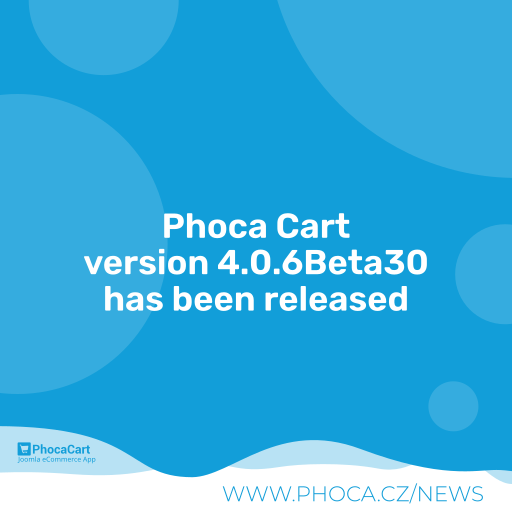
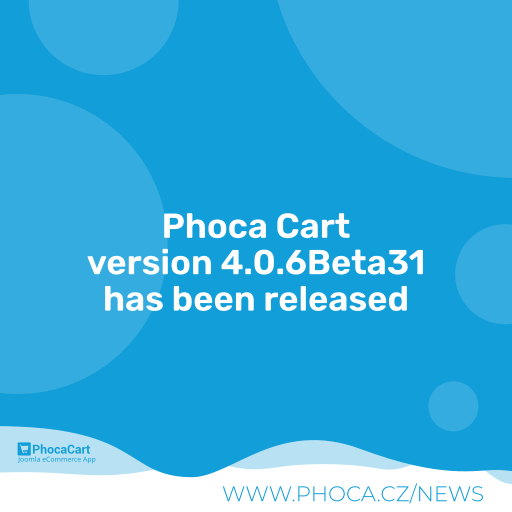
4.0.6Beta31

Changed region(s): [[0.1562, 0.4688, 0.8438, 0.5625]]

diff --git a/media/js/phoca/phocapos.min.js b/media/js/phoca/phocapos.min.js
@@ -1,1 +1,1 @@
-"use strict";function phUpdateUrlParameter(e,o,r){var t,a,n;if(void 0!==r?(a="",1<(n=(t=r).split("#")).length&&(a=n[1])):(t=window.location.href,a=location.hash),0<=(t=t.replace(a,"")).indexOf(e+"=")?t=t.substring(0,t.indexOf(e))+e+"="+o+(n=0<=(n=(n=t.substring(t.indexOf(e))).substring(n.indexOf("=")+1)).indexOf("&")?n.substring(n.indexOf("&")):""):t.indexOf("?")<0?t+="?"+e+"="+o:t+="&"+e+"="+o,t=t.replace(/[^=&]+=(&|$)/g,"").replace(/&$/,""),void 0!==r)return t+a;window.history.pushState(null,null,t+a)}function phDoSubmitFormUpdateInputBox(e,o){return jQuery.ajax({type:"POST",url:o,async:!0,cache:"false",data:e,dataType:"HTML",success:function(e){jQuery("#phPosInputBox").html(e)}}),!1}function phDoSubmitFormUpdateCategoriesBox(e,o){return"main.content.customers"!=jQuery("#phPosPaginationBox input[name=page]").val()||jQuery.ajax({type:"POST",url:o,async:!0,cache:"false",data:e,dataType:"HTML",success:function(e){jQuery("#phPosCategoriesBox").html(e)}}),!1}function phPosCurrentData(e,o,r){var t=Joomla.getOptions("phVarsPC").token;return"format="+(void 0!==o?o:"raw")+"&tmpl=component&page="+(void 0!==e?e:jQuery("#phPosPaginationBox input[name=page]").val())+(void 0!==r?"&id="+r:"")+"&ticketid="+jQuery("#phPosPaginationBox input[name=ticketid]").val()+"&unitid="+jQuery("#phPosPaginationBox input[name=unitid]").val()+"&sectionid="+jQuery("#phPosPaginationBox input[name=sectionid]").val()+"&"+t+"=1"}function phPosClearFilter(){phUpdateUrlParameter("category",""),jQuery("input.phPosCategoryCheckbox:checkbox:checked").prop("checked",!1),jQuery("label.phCheckBoxCategory").removeClass("active"),phUpdateUrlParameter("search",""),jQuery("#phPosSearch").val("")}function phPosManagePageFocus(e){if(1!=Joomla.getOptions("phParamsPC").posFocusInputFields)return!0;"main.content.products"==e?jQuery("#phPosSearch").is(":focus")||jQuery("#phPosSku").focus():"main.content.customers"==e?jQuery("#phPosSearch").is(":focus")||jQuery("#phPosCard").focus():"main.content.paymentmethods"==e||"main.content.applybenefits"==e?jQuery("#phPosSearch").is(":focus")||jQuery("#phcoupon").focus():"main.content.payment"==e&&jQuery("#phAmountTendered").focus()}function phPosManagePage(){var e=jQuery("#phPosPaginationBox input[name=page]").val();"main.content.products"==e?(jQuery(".ph-pos-checkbox-box").show(),jQuery(".ph-pos-sku-product-box").show(),jQuery(".ph-pos-card-user-box").hide(),jQuery(".ph-pos-search-box").show(),jQuery(".ph-pos-date-order-box").hide(),phPosManagePageFocus(e)):"main.content.customers"==e?(jQuery(".ph-pos-checkbox-box").hide(),jQuery(".ph-pos-search-box").show(),jQuery(".ph-pos-card-user-box").show(),jQuery(".ph-pos-sku-product-box").hide(),jQuery(".ph-pos-date-order-box").hide(),phPosManagePageFocus(e)):"main.content.order"==e?(jQuery(".ph-pos-checkbox-box").hide(),jQuery(".ph-pos-search-box").hide(),jQuery(".ph-pos-card-user-box").hide(),jQuery(".ph-pos-sku-product-box").hide(),jQuery(".ph-pos-date-order-box").hide()):"main.content.orders"==e?(jQuery(".ph-pos-checkbox-box").hide(),jQuery(".ph-pos-search-box").hide(),jQuery(".ph-pos-card-user-box").hide(),jQuery(".ph-pos-sku-product-box").hide(),jQuery(".ph-pos-date-order-box").show()):"main.content.paymentmethods"==e||"main.content.applybenefits"==e||"main.content.payment"==e?(jQuery(".ph-pos-checkbox-box").hide(),jQuery(".ph-pos-search-box").hide(),jQuery(".ph-pos-card-user-box").hide(),jQuery(".ph-pos-sku-product-box").hide(),jQuery(".ph-pos-date-order-box").hide(),phPosManagePageFocus(e)):(jQuery(".ph-pos-checkbox-box").hide(),jQuery(".ph-pos-search-box").hide(),jQuery(".ph-pos-card-user-box").hide(),jQuery(".ph-pos-sku-product-box").hide(),jQuery(".ph-pos-date-order-box").hide())}function phAddSuffixToUrl(e,o){return e+(-1!=e.indexOf("?")?"&":"?")+o}function phAjaxEditPos(e,o,r,t){var a=phAddSuffixToUrl(window.location.href,"format=raw"),n=phPosCurrentData("main.input"),s=phPosCurrentData("main.categories"),p=phPosCurrentData("main.cart","json");return jQuery.ajax({type:"POST",url:o,async:!0,cache:"false",data:e,dataType:"JSON",success:function(e){var o;1==e.status?(o="undefined"!==e.id?e.id:"",o=phPosCurrentData(r,"raw",o),phDoSubmitFormUpdateCategoriesBox(s,a),phRenderPage(o,a),phDoSubmitFormUpdateInputBox(n,a),phDoSubmitFormUpdateCart(p),jQuery(".ph-pos-message-box").html(e.message)):0==e.status&&(o=phPosCurrentData(t),phRenderPage(o,a),phDoSubmitFormUpdateInputBox(n,a),phDoSubmitFormUpdateCart(p),jQuery(".ph-pos-message-box").html(e.error))}}),!1}function phFindMember(e){var o="search="+e+"&"+phPosCurrentData();phUpdateUrlParameter("search",e);e=phAddSuffixToUrl(window.location.href,"format=raw");phRenderPage(o,e),jQuery(".ph-pos-message-box").html("")}function phScrollPosCart(e){var o;0<jQuery("#ph-msg-ns").length?e.animate({scrollTop:0},1500):(o=e[0].scrollHeight,e.animate({scrollTop:o},1500))}function phConfirm(o,e,r){return jQuery("#phDialogConfirm .modal-body").html(r),new bootstrap.Modal(document.getElementById("phDialogConfirm"),{keyboard:!1}).show(),jQuery("#phDialogConfirmSave").on("click",function(e){return phPosCloseTicketFormConfirmed=!0,""!=o&&jQuery(o).submit(),!0}),!1}jQuery(document).ready(function(){phPosManagePage(),jQuery(document).on("submit","#phPosSkuProductForm",function(){setTimeout(function(){jQuery("#phPosSku").val("")},100)}),jQuery(document).on("submit","#phPosCardUserForm",function(){setTimeout(function(){jQuery("#phPosCard").val("")},100)});var e=Joomla.getOptions("phLangPC"),o=document.getElementsByTagName("script"),t=0;jQuery.each(o,function(e,o){var r=o.src,o=r.indexOf("?"),r=(r=r.substring(0,-1!=o?o:r.length)).split("\\\\").pop().split("/").pop();"bootstrap.min.js"!=r&&"bootstrap.js"!=r||t++}),1<t&&(jQuery("#phPosWarningMsgBox").text(e.COM_PHOCACART_WARNING_BOOTSTRAP_JS_LOADED_MORE_THAN_ONCE),jQuery("#phPosWarningMsgBox").show()),jQuery(document).on("click",".loadMainContent",function(e){phPosClearFilter();var o=phAddSuffixToUrl(window.location.href,"format=raw"),r=jQuery(this).closest("form").serialize();phRenderPage(r,o),jQuery(".ph-pos-message-box").html(""),e.preventDefault()}),jQuery(document).on("click",".editMainContent",function(e){phPosClearFilter();var o=phAddSuffixToUrl(window.location.href,"format=json"),r=jQuery(this).closest("form");phAjaxEditPos(r.serialize(),o,r.find('input[name="redirectsuccess"]').val(),r.find('input[name="redirecterror"]').val()),jQuery(".ph-pos-message-box").html(""),e.preventDefault()}),jQuery(document).on("submit","#phPosCardUserForm",function(e){phPosClearFilter();var o=phAddSuffixToUrl(window.location.href,"format=json");phAjaxEditPos(jQuery("#phPosCardUserForm").serialize(),o,"main.content.products","main.content.products"),jQuery(".ph-pos-message-box").html(""),e.preventDefault()}),jQuery(document).on("submit","#phPosDateOrdersForm",function(e){phPosClearFilter();var o=phAddSuffixToUrl(window.location.href,"format=raw"),r=jQuery("#phPosDateOrdersForm").serialize();phRenderPage(r,o),jQuery(".ph-pos-message-box").html(""),e.preventDefault()});var r=!1;jQuery(document).on("submit","#phPosCloseTicketForm",function(e){var o=jQuery(this).data("txt");return r?!(r=!1):(phConfirm("#phPosCloseTicketForm","",o),e.preventDefault(),!1)}),jQuery(document).on("change","#phPosCategoriesBox .phPosCategoryCheckbox",function(){var e,o;2==Joomla.getOptions("phParamsPC").posFilterCategory?(e=[],jQuery("label.phCheckBoxCategory").removeClass("active"),jQuery("input.phPosCategoryCheckbox:checkbox:checked").each(function(){e.push(jQuery(this).val()),jQuery(this).parent("label").addClass("active")}),o=e.join(",")):(o=jQuery(this).val(),jQuery(this).parent().addClass("active"),jQuery("input.phPosCategoryCheckbox:checkbox:checked").each(function(){o!=jQuery(this).val()&&(jQuery(this).prop("checked",!1),jQuery(this).parent("label").removeClass("active"))}),0==jQuery(this).prop("checked")&&(o=""));var r="category="+o+"&"+phPosCurrentData();phUpdateUrlParameter("category",o);var t=phAddSuffixToUrl(window.location.href,"format=raw");phRenderPage(r,t),jQuery(".ph-pos-message-box").html("")});var a=null;jQuery("#phPosSearch").keyup(function(){clearTimeout(a);var e=jQuery(this);a=setTimeout(function(){phFindMember(e.val())},800)}),jQuery("#phPosContentBox").on("click",".phOrderPrintBtn",function(e){var o=Joomla.getOptions("phVarsPC"),r=Joomla.getOptions("phParamsPC").posServerPrint,t=o.urlOrder,a=jQuery(this).data("order"),n=jQuery(this).data("type"),o=(jQuery("#phPosOrderPrintBox").attr("data-order"),jQuery("#phPosOrderPrintBox").attr("data-type"));if("-1"==n){if(2!=r&&3!=r)return window.print(),!1;if("4"!=o)return window.print(),!1;o=phAddSuffixToUrl(t,"id="+a+"&type="+o+"&pos=1&printserver=1");return jQuery.ajax({type:"GET",url:o,async:!0,cache:"false",dataType:"HTML",success:function(e){jQuery(".ph-pos-message-box").html("<div>"+e+"</div>")}}),e.preventDefault(),!1}var s="phType"+n,t=phAddSuffixToUrl(t,"id="+a+"&type="+n+"&pos=1");jQuery.ajax({type:"GET",url:t,async:!0,cache:"false",dataType:"HTML",success:function(e){jQuery("#phPosOrderPrintBox").attr("class",s),jQuery("#phPosOrderPrintBox").attr("data-type",n),jQuery("#phPosOrderPrintBox").html(e)}}),e.preventDefault()});var n=jQuery("#phPosCart");phScrollPosCart(n),n.on("DOMSubtreeModified",function(){""!=n.text()&&phScrollPosCart(n)})});
+"use strict";function phUpdateUrlParameter(e,o,r){var t,a,n;if(void 0!==r?(a="",1<(n=(t=r).split("#")).length&&(a=n[1])):(t=window.location.href,a=location.hash),0<=(t=t.replace(a,"")).indexOf(e+"=")?t=t.substring(0,t.indexOf(e))+e+"="+o+(n=0<=(n=(n=t.substring(t.indexOf(e))).substring(n.indexOf("=")+1)).indexOf("&")?n.substring(n.indexOf("&")):""):t.indexOf("?")<0?t+="?"+e+"="+o:t+="&"+e+"="+o,t=t.replace(/[^=&]+=(&|$)/g,"").replace(/&$/,""),void 0!==r)return t+a;window.history.pushState(null,null,t+a)}function phDoSubmitFormUpdateInputBox(e,o){return jQuery.ajax({type:"POST",url:o,async:!0,cache:"false",data:e,dataType:"HTML",success:function(e){jQuery("#phPosInputBox").html(e)}}),!1}function phDoSubmitFormUpdateCategoriesBox(e,o){return"main.content.customers"!=jQuery("#phPosPaginationBox input[name=page]").val()||jQuery.ajax({type:"POST",url:o,async:!0,cache:"false",data:e,dataType:"HTML",success:function(e){jQuery("#phPosCategoriesBox").html(e)}}),!1}function phPosCurrentData(e,o,r){var t=Joomla.getOptions("phVarsPC").token;return"format="+(void 0!==o?o:"raw")+"&tmpl=component&page="+(void 0!==e?e:jQuery("#phPosPaginationBox input[name=page]").val())+(void 0!==r?"&id="+r:"")+"&ticketid="+jQuery("#phPosPaginationBox input[name=ticketid]").val()+"&unitid="+jQuery("#phPosPaginationBox input[name=unitid]").val()+"&sectionid="+jQuery("#phPosPaginationBox input[name=sectionid]").val()+"&"+t+"=1"}function phPosClearFilter(){phUpdateUrlParameter("category",""),jQuery("input.phPosCategoryCheckbox:checkbox:checked").prop("checked",!1),jQuery("label.phCheckBoxCategory").removeClass("active"),phUpdateUrlParameter("search",""),jQuery("#phPosSearch").val("")}function phPosManagePageFocus(e){if(1!=Joomla.getOptions("phParamsPC").posFocusInputFields)return!0;"main.content.products"==e?jQuery("#phPosSearch").is(":focus")||jQuery("#phPosSku").focus():"main.content.customers"==e?jQuery("#phPosSearch").is(":focus")||jQuery("#phPosCard").focus():"main.content.paymentmethods"==e||"main.content.applybenefits"==e?jQuery("#phPosSearch").is(":focus")||jQuery("#phcoupon").focus():"main.content.payment"==e&&jQuery("#phAmountTendered").focus()}function phPosManagePage(){var e=jQuery("#phPosPaginationBox input[name=page]").val();"main.content.products"==e?(jQuery(".ph-pos-checkbox-box").show(),jQuery(".ph-pos-sku-product-box").show(),jQuery(".ph-pos-card-user-box").hide(),jQuery(".ph-pos-search-box").show(),jQuery(".ph-pos-date-order-box").hide(),phPosManagePageFocus(e)):"main.content.customers"==e?(jQuery(".ph-pos-checkbox-box").hide(),jQuery(".ph-pos-search-box").show(),jQuery(".ph-pos-card-user-box").show(),jQuery(".ph-pos-sku-product-box").hide(),jQuery(".ph-pos-date-order-box").hide(),phPosManagePageFocus(e)):"main.content.order"==e?(jQuery(".ph-pos-checkbox-box").hide(),jQuery(".ph-pos-search-box").hide(),jQuery(".ph-pos-card-user-box").hide(),jQuery(".ph-pos-sku-product-box").hide(),jQuery(".ph-pos-date-order-box").hide()):"main.content.orders"==e?(jQuery(".ph-pos-checkbox-box").hide(),jQuery(".ph-pos-search-box").hide(),jQuery(".ph-pos-card-user-box").hide(),jQuery(".ph-pos-sku-product-box").hide(),jQuery(".ph-pos-date-order-box").show()):"main.content.paymentmethods"==e||"main.content.applybenefits"==e||"main.content.payment"==e?(jQuery(".ph-pos-checkbox-box").hide(),jQuery(".ph-pos-search-box").hide(),jQuery(".ph-pos-card-user-box").hide(),jQuery(".ph-pos-sku-product-box").hide(),jQuery(".ph-pos-date-order-box").hide(),phPosManagePageFocus(e)):(jQuery(".ph-pos-checkbox-box").hide(),jQuery(".ph-pos-search-box").hide(),jQuery(".ph-pos-card-user-box").hide(),jQuery(".ph-pos-sku-product-box").hide(),jQuery(".ph-pos-date-order-box").hide())}function phAddSuffixToUrl(e,o){return e+(-1!=e.indexOf("?")?"&":"?")+o}function phAjaxEditPos(e,o,r,t){var a=phAddSuffixToUrl(window.location.href,"format=raw"),n=phPosCurrentData("main.input"),s=phPosCurrentData("main.categories"),p=phPosCurrentData("main.cart","json");return jQuery.ajax({type:"POST",url:o,async:!0,cache:"false",data:e,dataType:"JSON",success:function(e){var o;1==e.status?(o="undefined"!==e.id?e.id:"",o=phPosCurrentData(r,"raw",o),phDoSubmitFormUpdateCategoriesBox(s,a),phRenderPage(o,a),phDoSubmitFormUpdateInputBox(n,a),phDoSubmitFormUpdateCart(p),jQuery(".ph-pos-message-box").html(e.message)):0==e.status&&(o=phPosCurrentData(t),phRenderPage(o,a),phDoSubmitFormUpdateInputBox(n,a),phDoSubmitFormUpdateCart(p),jQuery(".ph-pos-message-box").html(e.error))}}),!1}function phFindMember(e){var o="search="+e+"&"+phPosCurrentData();phUpdateUrlParameter("search",e);e=phAddSuffixToUrl(window.location.href,"format=raw");phRenderPage(o,e),jQuery(".ph-pos-message-box").html("")}function phScrollPosCart(e){var o;0<jQuery("#ph-msg-ns").length?e.animate({scrollTop:0},1500):(o=e[0].scrollHeight,e.animate({scrollTop:o},1500))}function phConfirm(o,e,r){return jQuery("#phDialogConfirm .modal-body").html(r),new bootstrap.Modal(document.getElementById("phDialogConfirm"),{keyboard:!1}).show(),jQuery("#phDialogConfirmSave").on("click",function(e){return phPosCloseTicketFormConfirmed=!0,""!=o&&jQuery(o).submit(),!0}),!1}var phPosCloseTicketFormConfirmed=!1;jQuery(document).ready(function(){phPosManagePage(),jQuery(document).on("submit","#phPosSkuProductForm",function(){setTimeout(function(){jQuery("#phPosSku").val("")},100)}),jQuery(document).on("submit","#phPosCardUserForm",function(){setTimeout(function(){jQuery("#phPosCard").val("")},100)});var e=Joomla.getOptions("phLangPC"),o=document.getElementsByTagName("script"),t=0;jQuery.each(o,function(e,o){var r=o.src,o=r.indexOf("?"),r=(r=r.substring(0,-1!=o?o:r.length)).split("\\\\").pop().split("/").pop();"bootstrap.min.js"!=r&&"bootstrap.js"!=r||t++}),1<t&&(jQuery("#phPosWarningMsgBox").text(e.COM_PHOCACART_WARNING_BOOTSTRAP_JS_LOADED_MORE_THAN_ONCE),jQuery("#phPosWarningMsgBox").show()),jQuery(document).on("click",".loadMainContent",function(e){phPosClearFilter();var o=phAddSuffixToUrl(window.location.href,"format=raw"),r=jQuery(this).closest("form").serialize();phRenderPage(r,o),jQuery(".ph-pos-message-box").html(""),e.preventDefault()}),jQuery(document).on("click",".editMainContent",function(e){phPosClearFilter();var o=phAddSuffixToUrl(window.location.href,"format=json"),r=jQuery(this).closest("form");phAjaxEditPos(r.serialize(),o,r.find('input[name="redirectsuccess"]').val(),r.find('input[name="redirecterror"]').val()),jQuery(".ph-pos-message-box").html(""),e.preventDefault()}),jQuery(document).on("submit","#phPosCardUserForm",function(e){phPosClearFilter();var o=phAddSuffixToUrl(window.location.href,"format=json");phAjaxEditPos(jQuery("#phPosCardUserForm").serialize(),o,"main.content.products","main.content.products"),jQuery(".ph-pos-message-box").html(""),e.preventDefault()}),jQuery(document).on("submit","#phPosDateOrdersForm",function(e){phPosClearFilter();var o=phAddSuffixToUrl(window.location.href,"format=raw"),r=jQuery("#phPosDateOrdersForm").serialize();phRenderPage(r,o),jQuery(".ph-pos-message-box").html(""),e.preventDefault()}),jQuery(document).on("submit","#phPosCloseTicketForm",function(e){var o=jQuery(this).data("txt");return phPosCloseTicketFormConfirmed?!(phPosCloseTicketFormConfirmed=!1):(phConfirm("#phPosCloseTicketForm","",o),e.preventDefault(),!1)}),jQuery(document).on("change","#phPosCategoriesBox .phPosCategoryCheckbox",function(){var e,o;2==Joomla.getOptions("phParamsPC").posFilterCategory?(e=[],jQuery("label.phCheckBoxCategory").removeClass("active"),jQuery("input.phPosCategoryCheckbox:checkbox:checked").each(function(){e.push(jQuery(this).val()),jQuery(this).parent("label").addClass("active")}),o=e.join(",")):(o=jQuery(this).val(),jQuery(this).parent().addClass("active"),jQuery("input.phPosCategoryCheckbox:checkbox:checked").each(function(){o!=jQuery(this).val()&&(jQuery(this).prop("checked",!1),jQuery(this).parent("label").removeClass("active"))}),0==jQuery(this).prop("checked")&&(o=""));var r="category="+o+"&"+phPosCurrentData();phUpdateUrlParameter("category",o);var t=phAddSuffixToUrl(window.location.href,"format=raw");phRenderPage(r,t),jQuery(".ph-pos-message-box").html("")});var r=null;jQuery("#phPosSearch").keyup(function(){clearTimeout(r);var e=jQuery(this);r=setTimeout(function(){phFindMember(e.val())},800)}),jQuery("#phPosContentBox").on("click",".phOrderPrintBtn",function(e){var o=Joomla.getOptions("phVarsPC"),r=Joomla.getOptions("phParamsPC").posServerPrint,t=o.urlOrder,a=jQuery(this).data("order"),n=jQuery(this).data("type"),o=(jQuery("#phPosOrderPrintBox").attr("data-order"),jQuery("#phPosOrderPrintBox").attr("data-type"));if("-1"==n){if(2!=r&&3!=r)return window.print(),!1;if("4"!=o)return window.print(),!1;o=phAddSuffixToUrl(t,"id="+a+"&type="+o+"&pos=1&printserver=1");return jQuery.ajax({type:"GET",url:o,async:!0,cache:"false",dataType:"HTML",success:function(e){jQuery(".ph-pos-message-box").html("<div>"+e+"</div>")}}),e.preventDefault(),!1}var s="phType"+n,t=phAddSuffixToUrl(t,"id="+a+"&type="+n+"&pos=1");jQuery.ajax({type:"GET",url:t,async:!0,cache:"false",dataType:"HTML",success:function(e){jQuery("#phPosOrderPrintBox").attr("class",s),jQuery("#phPosOrderPrintBox").attr("data-type",n),jQuery("#phPosOrderPrintBox").html(e)}}),e.preventDefault()});var a=jQuery("#phPosCart");phScrollPosCart(a),a.on("DOMSubtreeModified",function(){""!=a.text()&&phScrollPosCart(a)})});

diff --git a/media/js/phoca/phocapos.js b/media/js/phoca/phocapos.js
@@ -334,6 +334,8 @@ function phConfirm(submitForm, dataPost, txt) {
 }
 
 
+var phPosCloseTicketFormConfirmed = false;
+
 // ------
 // Events
 // ------
@@ -435,7 +437,6 @@ jQuery(document).ready(function(){
 	});
 
 	/* Display warning when closing a ticket */
-	var phPosCloseTicketFormConfirmed = false;
 	jQuery(document).on("submit", "#phPosCloseTicketForm", function (e) {
 		var txt = jQuery(this).data("txt");
 		if(!phPosCloseTicketFormConfirmed) {

diff --git a/media/css/pos.css b/media/css/pos.css
@@ -1061,10 +1061,23 @@ input[type="number"] {
     left: 0;
     top: 0;
   }
+
+  	/* Prevent from adding last blank page */
+	html, body {
+		height:100vh; 
+		margin: 0 !important; 
+		padding: 0 !important;
+		overflow: hidden;
+	}
+
+	#phPosOrderPrintBox {
+		height: 100vh;
+		margin: 0 !important; 
+		padding: 0 !important;
+		overflow: hidden;
+	}
+
 }
-
-
-
 
 
 #phPosDateOrdersForm  input {

diff --git a/site/layouts/form_search.php b/site/layouts/form_search.php
@@ -43,7 +43,7 @@ if (isset($d['activefilter']) && $d['activefilter']) {
     <div class="inner-addon right-addon"><?php echo PhocacartRenderIcon::icon($d['s']['i']['search']) ?><input type="text" class="<?php echo $d['s']['c']['form-control'] ?>" name="<?php echo $d['paramname']; ?>" placeholder="<?php echo Text::_($d['placeholder_text']); ?>" value="<?php echo $d['getparams']; ?>" id="<?php echo $d['id'] . $d['paramname']; ?>"/></div>
 
 <?php } else { ?>
-    <input type="text" class="<?php echo $d['s']['c']['form-control'] ?>" name="<?php echo $d['paramname']; ?>" placeholder="<?php echo Text::_($d['placeholder_text']); ?>" value="<?php echo $d['getparams']; ?>" id="<?php echo $d['id'] . $d['paramname']; ?>" aria-label="<?php echo Text::_('COM_PHOCACART_SEARCH'); ?>" />
+    <input type="text" class="<?php echo $d['s']['c']['form-control'] ?> phSearchBoxSearchInput" name="<?php echo $d['paramname']; ?>" placeholder="<?php echo Text::_($d['placeholder_text']); ?>" value="<?php echo $d['getparams']; ?>" id="<?php echo $d['id'] . $d['paramname']; ?>" aria-label="<?php echo Text::_('COM_PHOCACART_SEARCH'); ?>" />
 
 <?php } ?>
 

diff --git a/site/views/pos/tmpl/default.php b/site/views/pos/tmpl/default.php
@@ -22,8 +22,8 @@ echo '<div id="phDialogConfirm" class="modal fade" tabindex="-1" role="dialog">'
 echo '<div class="modal-dialog" role="document">';
 echo '<div class="modal-content">';
 echo '<div class="modal-header">';
-echo '<button type="button" class="btn-close" data-bs-dismiss="modal" aria-label="Close"></button>';
 echo '<h4 class="modal-title">'. Text::_('COM_PHOCACART_CONFIRM').'</h4>';
+echo '<button type="button" class="btn-close" data-bs-dismiss="modal" aria-label="Close"></button>';
 echo '</div>';
 echo '<div class="modal-body"></div>';
 echo '<div class="modal-footer">';

diff --git a/README.MD b/README.MD
@@ -122,7 +122,7 @@ Phoca Cart is e-commerce extension - powerful shopping cart for Joomla! CMS. Pho
 
 ## Version (Joomla! 4.x)
 
-4.0.6Beta30
+4.0.6Beta31
 
 
 
